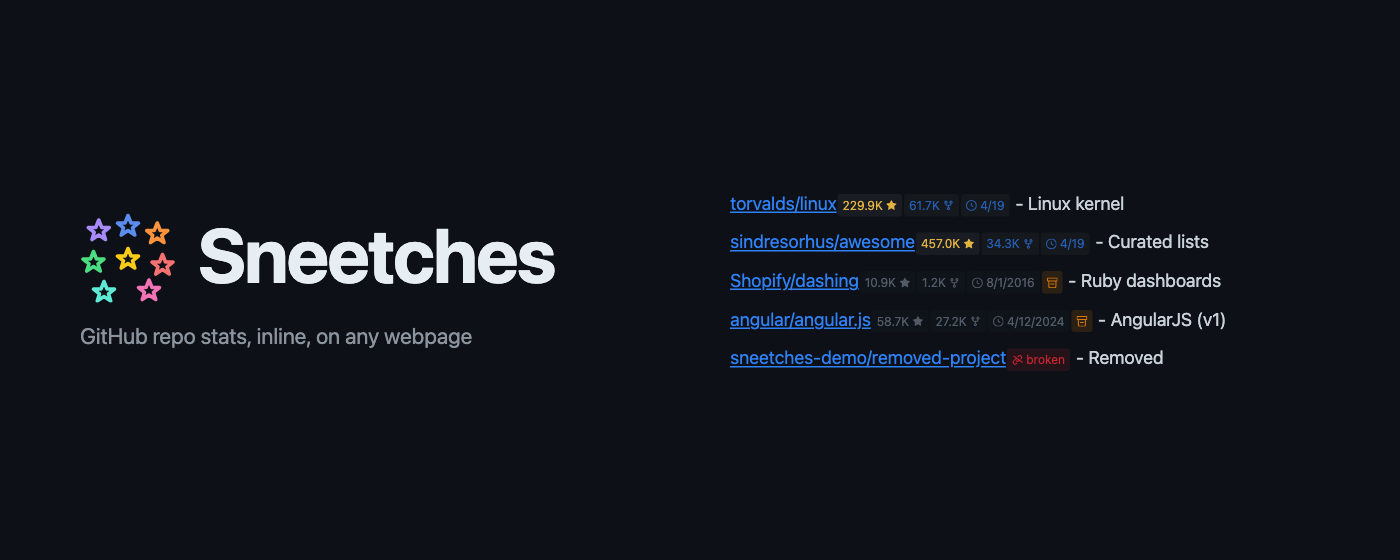
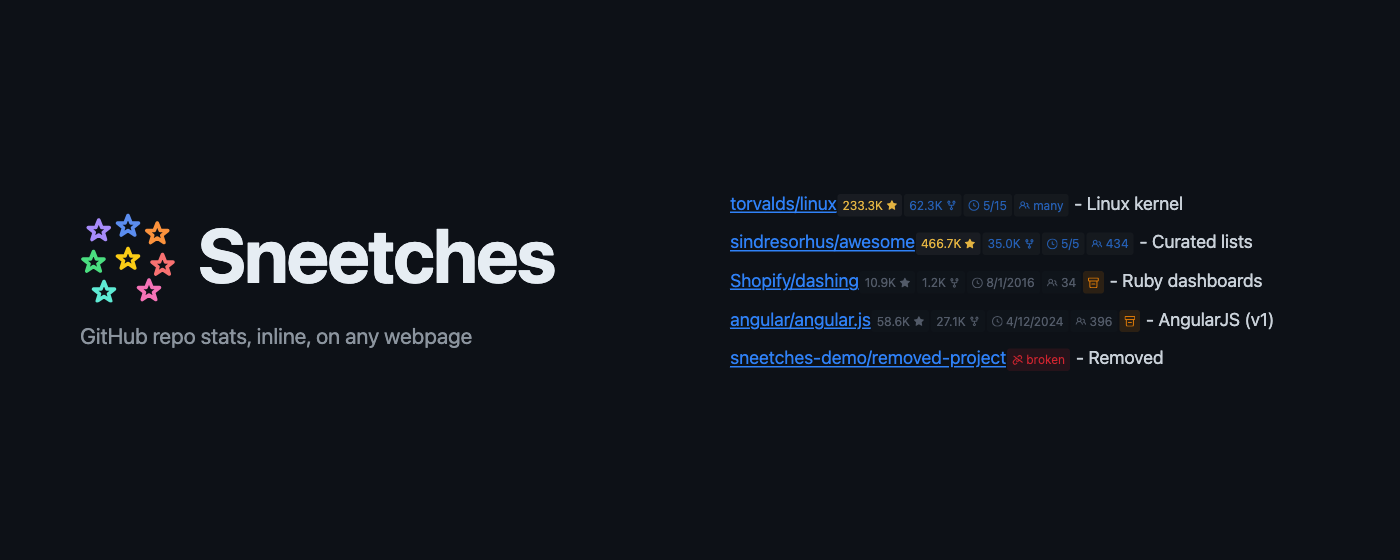
docs: 1.4.0 README + PRIVACY + screenshots for contributor-count
README: add the opt-in Contributors annotation paragraph alongside the
existing skip-owners blurb in the Advanced tray section. Mirrors the
1.3.1 docs pattern for surfacing power-user features.

PRIVACY: update the display-preferences list to include 'contributors';
expand the GitHub API endpoint list to cover all four endpoints we
actually hit (POST /graphql for PAT users, GET /repos/{owner}/{name}
unauth fallback, GET /repos/.../contributors?per_page=1 when the
opt-in annotation is enabled, GET /user for token validation). The
GraphQL endpoint had been missing since 1.1.7; fixed in this pass.

Screenshots: regenerated assets/popup.png with show.contributors=true
in the injected state so the Advanced-tray Contributors row renders
with its checked checkbox + people icon. Also regenerated
comparison.png / social-preview.png / cws-* for symmetry — the
content-script page they exercise didn't change, but the version
footer in the popup did.

Changed region(s): [[0.6757, 0.4857, 0.9214, 0.6071], [0.645, 0.3339, 0.86, 0.3946], [0.645, 0.425, 0.8907, 0.4554]]

diff --git a/scripts/screenshots/cws-screenshot.html b/scripts/screenshots/cws-screenshot.html
@@ -122,11 +122,11 @@
       <h2>Without Sneetches</h2>
       <ul>
         <li><a href="https://github.com/torvalds/linux"><span>torvalds/linux</span></a> - Linux kernel source</li>
-        <li><a href="https://github.com/sindresorhus/awesome"><span>sindresorhus/awesome</span></a> - Curated awesome lists</li>
-        <li><a href="https://github.com/home-assistant/frontend"><span>home-assistant/frontend</span></a> - Home Assistant UI</li>
+        <li><a href="https://github.com/sindresorhus/awesome"><span>sindresorhus/awesome</span></a> - Awesome lists</li>
+        <li><a href="https://github.com/home-assistant/frontend"><span>home-assistant/frontend</span></a> - HA frontend</li>
         <li><a href="https://github.com/Shopify/dashing"><span>Shopify/dashing</span></a> - Ruby dashboards</li>
         <li><a href="https://github.com/angular/angular.js"><span>angular/angular.js</span></a> - AngularJS (v1)</li>
-        <li><a href="https://github.com/google/closure-library"><span>google/closure-library</span></a> - Closure utilities</li>
+        <li><a href="https://github.com/google/closure-library"><span>google/closure-library</span></a> - Closure JS</li>
         <li><a href="https://github.com/sneetches-demo/removed-project"><span>sneetches-demo/removed-project</span></a> - Removed project</li>
       </ul>
     </section>
@@ -137,11 +137,11 @@
       <h2><span class="hl">With Sneetches</span></h2>
       <ul>
         <li><a href="https://github.com/torvalds/linux">torvalds/linux</a> - Linux kernel source</li>
-        <li><a href="https://github.com/sindresorhus/awesome">sindresorhus/awesome</a> - Curated awesome lists</li>
-        <li><a href="https://github.com/home-assistant/frontend">home-assistant/frontend</a> - Home Assistant UI</li>
+        <li><a href="https://github.com/sindresorhus/awesome">sindresorhus/awesome</a> - Awesome lists</li>
+        <li><a href="https://github.com/home-assistant/frontend">home-assistant/frontend</a> - HA frontend</li>
         <li><a href="https://github.com/Shopify/dashing">Shopify/dashing</a> - Ruby dashboards</li>
         <li><a href="https://github.com/angular/angular.js">angular/angular.js</a> - AngularJS (v1)</li>
-        <li><a href="https://github.com/google/closure-library">google/closure-library</a> - Closure utilities</li>
+        <li><a href="https://github.com/google/closure-library">google/closure-library</a> - Closure JS</li>
         <li><a href="https://github.com/sneetches-demo/removed-project">sneetches-demo/removed-project</a> - Removed project</li>
       </ul>
     </section>

diff --git a/scripts/screenshots/social-preview.html b/scripts/screenshots/social-preview.html
@@ -122,11 +122,11 @@
       <h2>Without Sneetches</h2>
       <ul>
         <li><a href="https://github.com/torvalds/linux"><span>torvalds/linux</span></a> - Linux kernel source</li>
-        <li><a href="https://github.com/sindresorhus/awesome"><span>sindresorhus/awesome</span></a> - Curated awesome lists</li>
-        <li><a href="https://github.com/home-assistant/frontend"><span>home-assistant/frontend</span></a> - Home Assistant UI</li>
+        <li><a href="https://github.com/sindresorhus/awesome"><span>sindresorhus/awesome</span></a> - Awesome lists</li>
+        <li><a href="https://github.com/home-assistant/frontend"><span>home-assistant/frontend</span></a> - HA frontend</li>
         <li><a href="https://github.com/Shopify/dashing"><span>Shopify/dashing</span></a> - Ruby dashboards</li>
         <li><a href="https://github.com/angular/angular.js"><span>angular/angular.js</span></a> - AngularJS (v1)</li>
-        <li><a href="https://github.com/google/closure-library"><span>google/closure-library</span></a> - Closure utilities</li>
+        <li><a href="https://github.com/google/closure-library"><span>google/closure-library</span></a> - Closure JS</li>
         <li><a href="https://github.com/sneetches-demo/removed-project"><span>sneetches-demo/removed-project</span></a> - Removed project</li>
       </ul>
     </section>
@@ -137,11 +137,11 @@
       <h2><span class="hl">With Sneetches</span></h2>
       <ul>
         <li><a href="https://github.com/torvalds/linux">torvalds/linux</a> - Linux kernel source</li>
-        <li><a href="https://github.com/sindresorhus/awesome">sindresorhus/awesome</a> - Curated awesome lists</li>
-        <li><a href="https://github.com/home-assistant/frontend">home-assistant/frontend</a> - Home Assistant UI</li>
+        <li><a href="https://github.com/sindresorhus/awesome">sindresorhus/awesome</a> - Awesome lists</li>
+        <li><a href="https://github.com/home-assistant/frontend">home-assistant/frontend</a> - HA frontend</li>
         <li><a href="https://github.com/Shopify/dashing">Shopify/dashing</a> - Ruby dashboards</li>
         <li><a href="https://github.com/angular/angular.js">angular/angular.js</a> - AngularJS (v1)</li>
-        <li><a href="https://github.com/google/closure-library">google/closure-library</a> - Closure utilities</li>
+        <li><a href="https://github.com/google/closure-library">google/closure-library</a> - Closure JS</li>
         <li><a href="https://github.com/sneetches-demo/removed-project">sneetches-demo/removed-project</a> - Removed project</li>
       </ul>
     </section>

diff --git a/scripts/screenshots/store-screenshot.html b/scripts/screenshots/store-screenshot.html
@@ -75,11 +75,11 @@
       <h2>Without Sneetches</h2>
       <ul>
         <li><a href="https://github.com/torvalds/linux"><span>torvalds/linux</span></a> - Linux kernel source</li>
-        <li><a href="https://github.com/sindresorhus/awesome"><span>sindresorhus/awesome</span></a> - Curated awesome lists</li>
-        <li><a href="https://github.com/home-assistant/frontend"><span>home-assistant/frontend</span></a> - Home Assistant UI</li>
+        <li><a href="https://github.com/sindresorhus/awesome"><span>sindresorhus/awesome</span></a> - Awesome lists</li>
+        <li><a href="https://github.com/home-assistant/frontend"><span>home-assistant/frontend</span></a> - HA frontend</li>
         <li><a href="https://github.com/Shopify/dashing"><span>Shopify/dashing</span></a> - Ruby dashboards</li>
         <li><a href="https://github.com/angular/angular.js"><span>angular/angular.js</span></a> - AngularJS (v1)</li>
-        <li><a href="https://github.com/google/closure-library"><span>google/closure-library</span></a> - Closure utilities</li>
+        <li><a href="https://github.com/google/closure-library"><span>google/closure-library</span></a> - Closure JS</li>
         <li><a href="https://github.com/sneetches-demo/removed-project"><span>sneetches-demo/removed-project</span></a> - Removed project</li>
       </ul>
     </section>
@@ -90,11 +90,11 @@
       <h2><span class="hl">With Sneetches</span></h2>
       <ul>
         <li><a href="https://github.com/torvalds/linux">torvalds/linux</a> - Linux kernel source</li>
-        <li><a href="https://github.com/sindresorhus/awesome">sindresorhus/awesome</a> - Curated awesome lists</li>
-        <li><a href="https://github.com/home-assistant/frontend">home-assistant/frontend</a> - Home Assistant UI</li>
+        <li><a href="https://github.com/sindresorhus/awesome">sindresorhus/awesome</a> - Awesome lists</li>
+        <li><a href="https://github.com/home-assistant/frontend">home-assistant/frontend</a> - HA frontend</li>
         <li><a href="https://github.com/Shopify/dashing">Shopify/dashing</a> - Ruby dashboards</li>
         <li><a href="https://github.com/angular/angular.js">angular/angular.js</a> - AngularJS (v1)</li>
-        <li><a href="https://github.com/google/closure-library">google/closure-library</a> - Closure utilities</li>
+        <li><a href="https://github.com/google/closure-library">google/closure-library</a> - Closure JS</li>
         <li><a href="https://github.com/sneetches-demo/removed-project">sneetches-demo/removed-project</a> - Removed project</li>
       </ul>
     </section>

diff --git a/PRIVACY.md b/PRIVACY.md
@@ -9,7 +9,7 @@ Sneetches collects and stores the following data **locally on your device**:
 - **GitHub Personal Access Token** (optional): If you choose to provide one, it is stored in your browser's synced storage (`chrome.storage.sync`) to authenticate GitHub API requests for higher rate limits. It is never sent to any server other than the official GitHub API (`api.github.com`).
 - **Cached API responses**: Repository statistics fetched from GitHub are cached locally (`chrome.storage.local`) for up to 4 hours to reduce API calls.
 - **Rate-limit state**: After each GitHub API response, the `x-ratelimit-limit` and `x-ratelimit-remaining` header values are stored locally (`chrome.storage.local`, key `rate_limit`) so the popup can display current usage. This data never leaves your device.
-- **Display preferences**: Your settings for which stats to show (stars, forks, last pushed), star icon style, and Advanced tray open/close state are stored in `chrome.storage.sync`.
+- **Display preferences**: Your settings for which stats to show (stars, forks, last pushed, contributors), star icon style, and Advanced tray open/close state are stored in `chrome.storage.sync`.
 - **Token validation state**: Whether your token was last confirmed valid is stored in `chrome.storage.sync` (`token_validated`) so the popup can show the correct indicator without re-testing on every open.
 - **"Star us?" state**: Whether you have starred the `github.com/kesensoy/sneetches` repository is stored in `chrome.storage.sync` (`has_starred`). This is detected by reading the star button in the GitHub page DOM — no data is sent anywhere.
 - **Toolbar icon preference**: Whether the toolbar button displays the default gray star or the multicolor constellation is stored in `chrome.storage.sync` (`toolbar_icon`). This is a purely cosmetic preference with no external side effects.
@@ -24,7 +24,9 @@ Sneetches does **not**:
 - Use analytics, telemetry, or tracking of any kind
 
 The only external network requests the extension makes are to the **GitHub API** (`api.github.com`):
-- `GET /repos/{owner}/{name}` — fetches public repository metadata for each repo link found on a page.
+- `POST /graphql` — when you've configured a Personal Access Token, the extension batches up to 10 repos per request through GitHub's GraphQL API. This is the fast path for higher-rate-limit users.
+- `GET /repos/{owner}/{name}` — used as the unauthenticated fallback (when no PAT is configured), one request per repo.
+- `GET /repos/{owner}/{name}/contributors?per_page=1` — only when the optional **Contributors** annotation is enabled, one request per repo. The response is used only to read the total contributor count (via the `Link` header's `rel="last"` page number).
 - `GET /user` — called once when you click the **Test** button in the token field, to verify your Personal Access Token. This call is user-initiated and does not happen automatically.
 
 ## Open Source

diff --git a/README.md b/README.md
@@ -44,6 +44,8 @@ Click the toolbar icon to open the popup — it's also the settings page. Toggle
 
 The **Advanced** tray shows current rate-limit usage and cached entry count, and lets you **skip owners** — useful when an org has private repos your PAT can't read, since GitHub returns 404 for those (same as a deleted repo), so every link to that org gets the red "broken" chip. Click **Manage** to add or remove an owner, or ⌘/Ctrl-click any broken chip for a one-step skip.
 
+It also hosts the opt-in **Contributors** annotation — a people icon + rough head-count next to the other chips. Lives in Advanced because each repo's count is a separate REST call, so it's off by default; hover the toggle for the cost hint.
+
 ## Development
 
 ```bash
